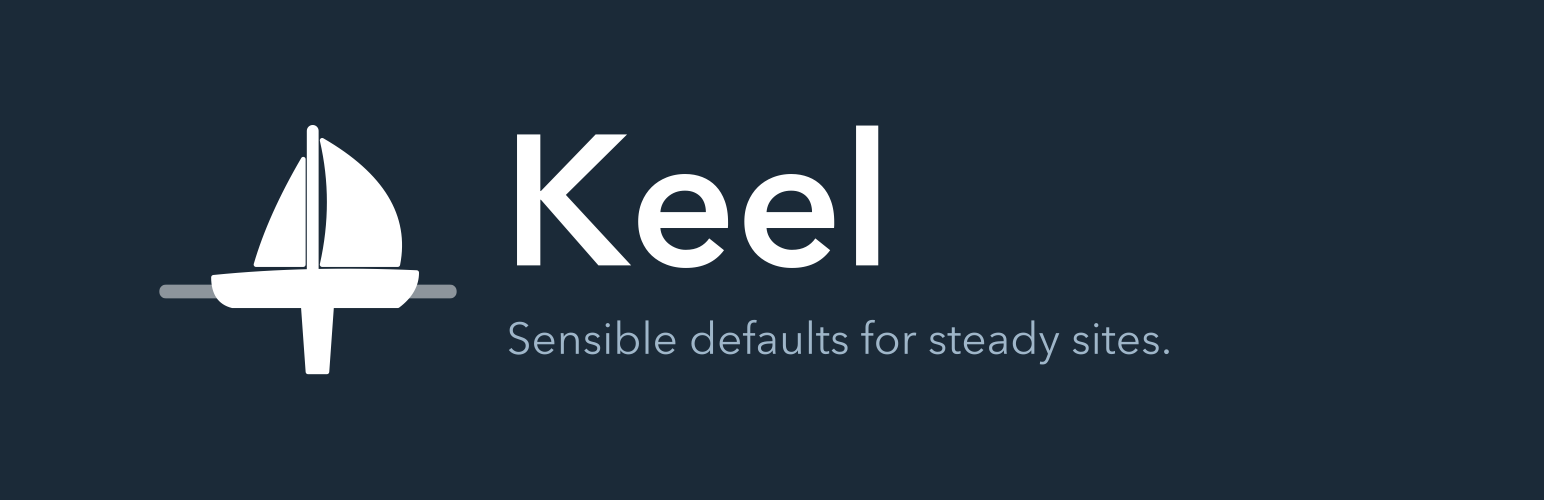
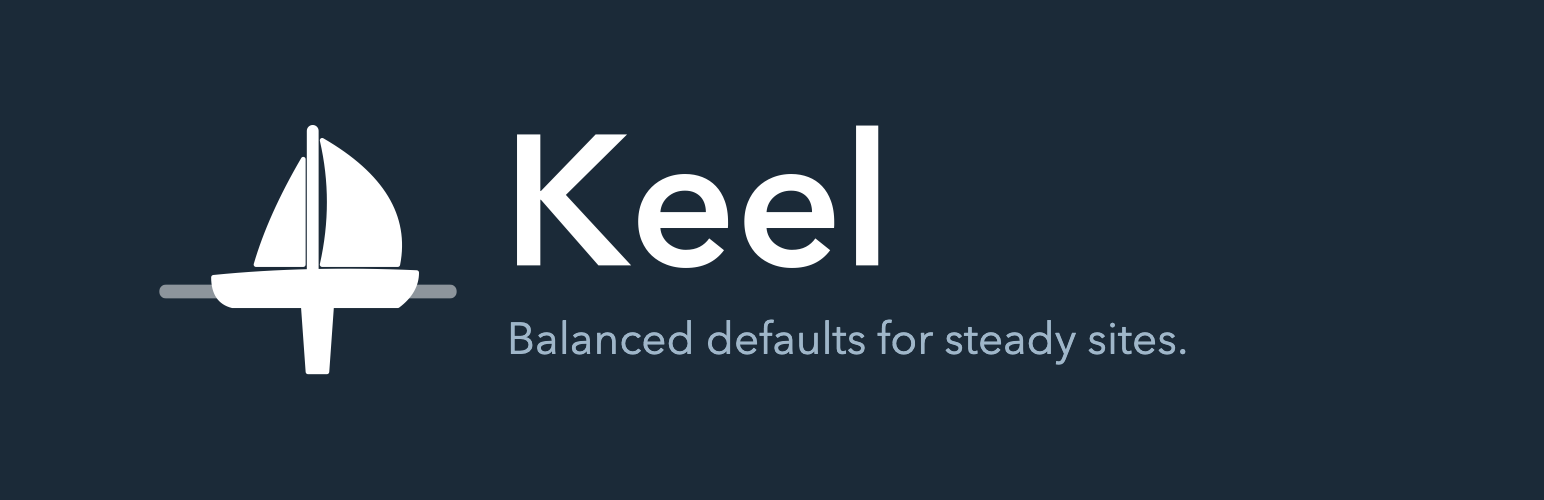
Keel: say "balanced defaults" in the preview (#22)
The Keel plugin's tagline changed from "Sensible defaults for steady
sites." to "Balanced defaults for steady sites." The preview image and
its alt text follow. Only the tagline area of the image changed; the
new line is set in the original's Avenir Next, size and colour.

The alt text also no longer mentions a blue fin keel, which this image
does not have.

Changed region(s): [[0.3109, 0.63, 0.7772, 0.72]]

diff --git a/projects/dknauss/Keel/index.html b/projects/dknauss/Keel/index.html
@@ -25,12 +25,12 @@
   <meta property="og:image:type" content="image/png">
   <meta property="og:image:width" content="1200">
   <meta property="og:image:height" content="630">
-  <meta property="og:image:alt" content="Reverse Keel banner for a dark background, with a white sailboat and wordmark, blue fin keel, and the tagline “Sensible defaults for steady sites.”">
+  <meta property="og:image:alt" content="Reverse Keel banner for a dark background, with a white sailboat and wordmark and the tagline “Balanced defaults for steady sites.”">
   <meta name="twitter:card" content="summary_large_image">
   <meta name="twitter:title" content="Keel | Work in Progress">
   <meta name="twitter:description" content="Sane WordPress defaults with actionable Site Health reporting for security, privacy, performance, and core updates — including same-line security patches.">
   <meta name="twitter:image" content="https://newlocalmedia.github.io/assets/keel-preview.png">
-  <meta name="twitter:image:alt" content="Reverse Keel banner for a dark background, with a white sailboat and wordmark, blue fin keel, and the tagline “Sensible defaults for steady sites.”">
+  <meta name="twitter:image:alt" content="Reverse Keel banner for a dark background, with a white sailboat and wordmark and the tagline “Balanced defaults for steady sites.”">
   <script type="application/ld+json">
 {
   "@context": "https://schema.org",
@@ -420,7 +420,7 @@
 
           </div>
           <div class="summary-box">
-            <figure class="summary-box-media"><button class="image-trigger" type="button" data-modal-image="https://newlocalmedia.github.io/assets/keel-preview.png" data-modal-alt="Reverse Keel banner for a dark background, with a white sailboat and wordmark, blue fin keel, and the tagline “Sensible defaults for steady sites.”" aria-label="Open larger image for Keel"><picture><source srcset="https://newlocalmedia.github.io/assets/keel-preview.webp" type="image/webp"><img src="https://newlocalmedia.github.io/assets/keel-preview.png" alt="Reverse Keel banner for a dark background, with a white sailboat and wordmark, blue fin keel, and the tagline “Sensible defaults for steady sites.”" loading="eager" decoding="async"></picture></button></figure>
+            <figure class="summary-box-media"><button class="image-trigger" type="button" data-modal-image="https://newlocalmedia.github.io/assets/keel-preview.png" data-modal-alt="Reverse Keel banner for a dark background, with a white sailboat and wordmark and the tagline “Balanced defaults for steady sites.”" aria-label="Open larger image for Keel"><picture><source srcset="https://newlocalmedia.github.io/assets/keel-preview.webp" type="image/webp"><img src="https://newlocalmedia.github.io/assets/keel-preview.png" alt="Reverse Keel banner for a dark background, with a white sailboat and wordmark and the tagline “Balanced defaults for steady sites.”" loading="eager" decoding="async"></picture></button></figure>
             <strong>Keel for WordPress ⚓</strong>
             <p><strong>Version 0.6.5:</strong> 39 individually switchable defaults, actionable Site Health reporting, multisite policy, and deliberate installation of same-line WordPress security patches.</p>
 

diff --git a/index.html b/index.html
@@ -184,7 +184,7 @@
         <div class="feature-shell" id="lead-feature-shell" aria-live="polite" aria-busy="false">
           <!-- GENERATED:LEAD_FEATURE_START -->
 <div class="feature-main">
-        <figure class="feature-media"><a href="/projects/dknauss/Keel/" aria-label="Open project page for Keel"><picture><source srcset="https://newlocalmedia.github.io/assets/keel-preview.webp" type="image/webp"><img src="https://newlocalmedia.github.io/assets/keel-preview.png" alt="Reverse Keel banner for a dark background, with a white sailboat and wordmark, blue fin keel, and the tagline “Sensible defaults for steady sites.”" loading="eager" decoding="async"></picture></a></figure>
+        <figure class="feature-media"><a href="/projects/dknauss/Keel/" aria-label="Open project page for Keel"><picture><source srcset="https://newlocalmedia.github.io/assets/keel-preview.webp" type="image/webp"><img src="https://newlocalmedia.github.io/assets/keel-preview.png" alt="Reverse Keel banner for a dark background, with a white sailboat and wordmark and the tagline “Balanced defaults for steady sites.”" loading="eager" decoding="async"></picture></a></figure>
         <span class="feature-label">Featured Repo</span>
         <div class="feature-kicker"><strong>What if a fresh WordPress install just started out sensible?</strong></div>
         <h2 id="lead-feature-title"><a class="title-link" href="/projects/dknauss/Keel/"><span class="title-with-icon"><span class="title-icon" aria-hidden="true"><svg viewBox="0 0 24 24"><path d="M12 5v14"/><path d="M5 12h14"/></svg></span><span>Keel</span></span></a></h2>
@@ -541,7 +541,7 @@
       "homepageLabel": "WordPress.org",
       "primaryImage": {
         "url": "https://newlocalmedia.github.io/assets/keel-preview.png",
-        "alt": "Reverse Keel banner for a dark background, with a white sailboat and wordmark, blue fin keel, and the tagline “Sensible defaults for steady sites.”"
+        "alt": "Reverse Keel banner for a dark background, with a white sailboat and wordmark and the tagline “Balanced defaults for steady sites.”"
       },
       "homeLeadExtraHtml": "Keel asks WordPress.org whether the installed core release is known to be vulnerable, names the patched release on the site’s own line, shows what WordPress would select, and lets an administrator deliberately install that same-line patch through WordPress’s upgrader. Nothing installs without a click."
     },
